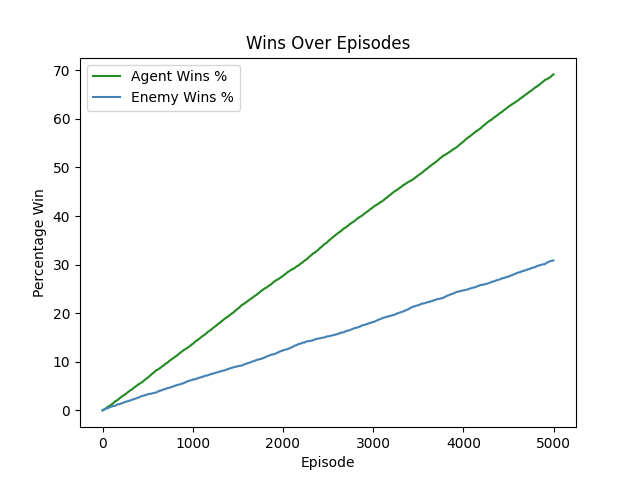
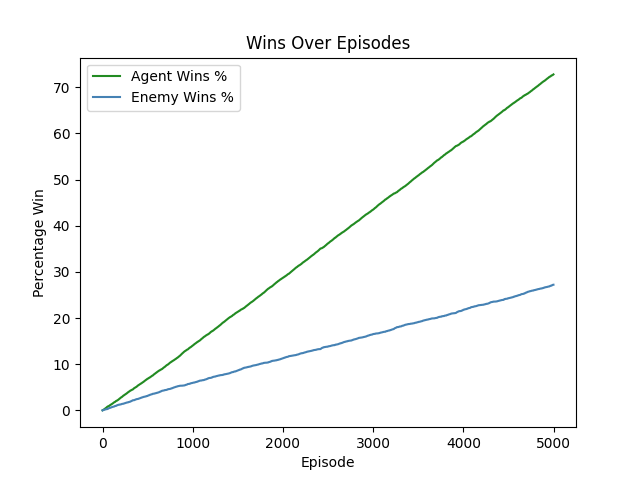
update environment and adding models

diff --git a/environment/ludo_environment.py b/environment/ludo_environment.py
@@ -78,7 +78,7 @@ class LudoEnv(gym.Env):
                 index = np.where(move_pieces == action)[0][0]
                 piece_to_move = move_pieces[index]
             else:
-                reward -= 1
+                reward -= 50
                 pass # if the agent choose an action that there is not in move_pieces
 
 
@@ -131,7 +131,7 @@ class LudoEnv(gym.Env):
 
         # Reward when the token of the player enter into PATH from HOME.
         if old_player_state['HOME'] > player_state['HOME']:
-            reward += 3
+            reward += 30
 
         # Reward when the token of the player enter into safe zone.
         if old_player_state['SAFE'] < player_state['SAFE']:

diff --git a/training/sarsa.py b/training/sarsa.py
@@ -219,11 +219,11 @@ if __name__ == '__main__':
             if SELF_PLAY:
                 with open('../models/sarsa_agent_self_play.pkl', 'wb') as file:
                     pickle.dump(Q, file)
-                print("\nQ model saved successfully.")
+                print("\nSarsa model saved successfully.")
             else:
                 with open('../models/sarsa_agent.pkl', 'wb') as file:
                     pickle.dump(Q, file)
-                print("\nQ model saved successfully.")
+                print("\nSarsa model saved successfully.")
 
             if not SAVE_CSV_RESULTS:
                 print(f'Percentage win agent: {percentage_win_agent}')

diff --git a/test/sarsa.py b/test/sarsa.py
@@ -134,7 +134,7 @@ if __name__ == '__main__':
     np.random.seed(42)
     num_wins_agent = 0
 
-    mode = 'S-VS-S'
+    mode = 'S_SELF-VS-RANDOM'
 
     for i in tqdm(range(0, 5000), desc='Game progress'):
         win_agent = execute(mode)
